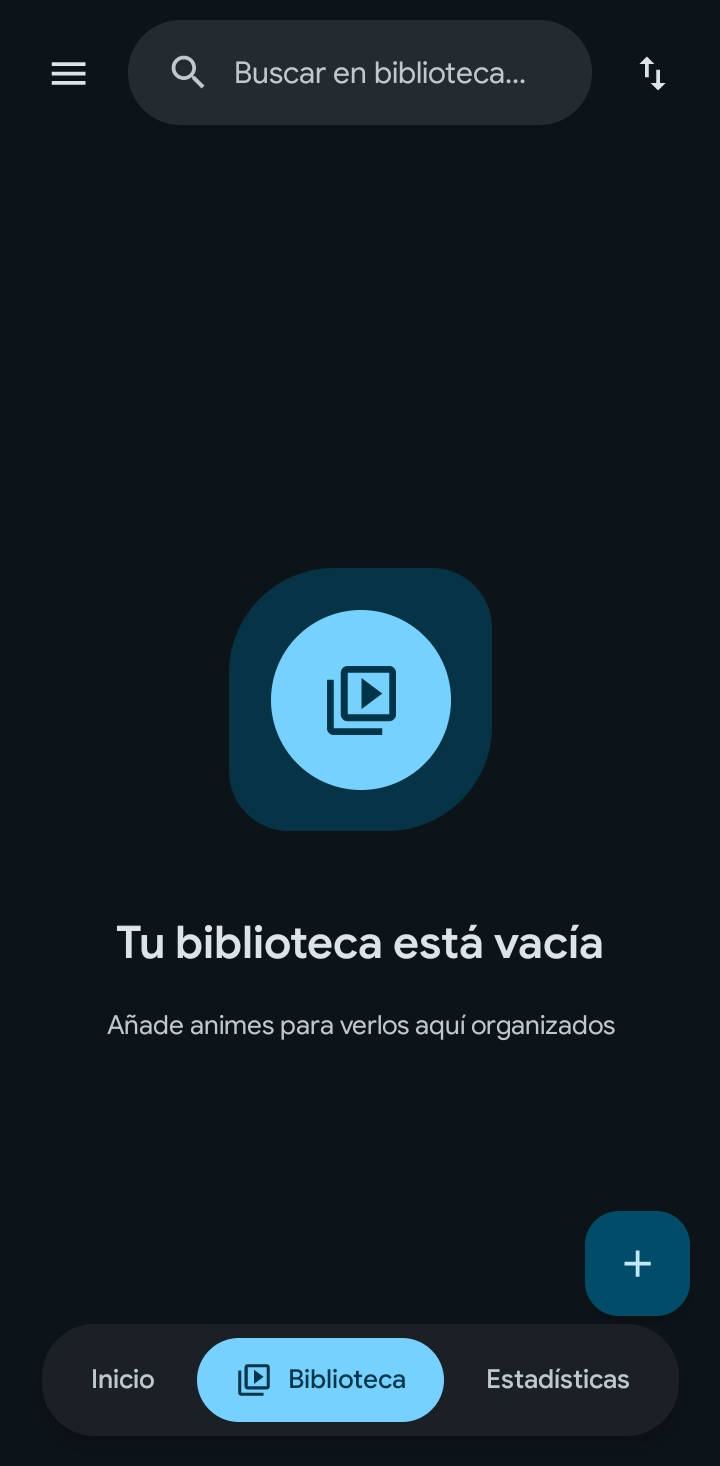
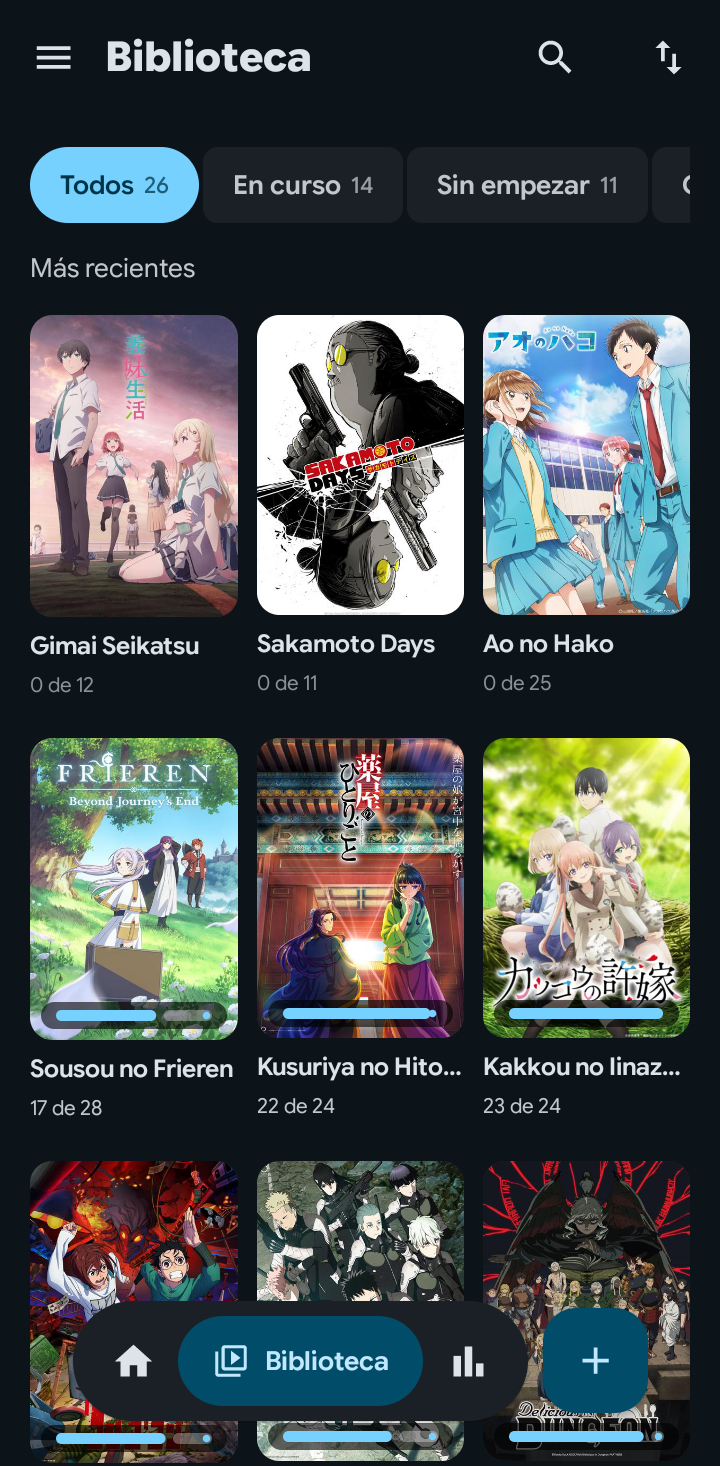
v4.0.0 - Diseño nuevo y formato de lista compartido con la web
- Diseño nuevo en toda la app, con la portada de cada anime como
  protagonista: Inicio, Biblioteca, Estadísticas, la ficha, Destacados,
  Ajustes y los diálogos
- Rejilla de episodios por temporada en la ficha y botón «Ya vi el…»
- Añadir un anime empieza buscando en el catálogo, por pasos
- Búsqueda dentro de Biblioteca, con varios géneros a la vez
- Formato de lista v4, el mismo que la web 4.0.0, con conversión
  automática de la lista y de la copia de Drive
- Lo cambiado o borrado en un dispositivo llega al otro al traer la
  copia de Drive
- README con seis capturas nuevas y la lista de características al día

diff --git a/CHANGELOG.md b/CHANGELOG.md
@@ -1,5 +1,58 @@
 # Registro de Cambios - MyAnimeNotes
 
+## [4.0.0] - 2026-10-14
+
+Versión conjunta con la web 4.0.0: las dos pasan a compartir un formato de lista nuevo. La app, además, cambia de diseño entero.
+
+### Nuevo
+
+- Diseño nuevo en toda la app, con la portada de cada anime como protagonista. Inicio propone qué seguir viendo en una tarjeta grande teñida del color de su portada, Biblioteca es una cuadrícula de pósters con su progreso y Estadísticas se ilustra con las portadas de tu lista
+- La ficha de un anime enseña sus episodios en una rejilla por temporadas: tocar uno lo deja como el último que viste, con «Deshacer» por si te equivocas
+- Añadir un anime empieza buscando en el catálogo y sigue por pasos: ficha, episodios y progreso. La ficha se edita en el sitio, y los géneros y temas se eligen en una hoja
+- Búsqueda dentro de Biblioteca: la cuadrícula se filtra mientras escribes, y puedes marcar varios géneros a la vez
+- Con la lista vacía, Inicio te lleva a añadir el primer anime o a traer una lista de Drive o de un archivo
+- Destacados pone los que estás viendo en un carrusel grande y los terminados en un estante aparte
+- Actualizaciones busca sola si hay una versión nueva, enseña sus notas y descarga el APK
+- Ayuda tiene buscador y una miniatura de cada control del que habla
+- Acerca de dice dónde está tu lista: cuántos animes guarda el teléfono, cómo está tu copia de Drive y un acceso a la web
+- Inicio saluda según la hora del día
+- Al cerrar sesión se quitan del teléfono los animes que ya están en tu copia de Drive, y vuelven al iniciar sesión y traer la copia. Los que tienen cambios sin subir se quedan. Si la copia de Drive no es la que subió o trajo este teléfono, o no hay conexión para comprobarlo, no se quita ninguno
+- Con la sesión iniciada, una nube tachada sobre el póster señala los animes con cambios sin subir, y el detalle dice si el anime está en tu copia de Drive
+
+### Mejorado
+
+- El progreso de un anime es el último episodio visto, y de ahí salen los vistos y el que sigue. Antes se guardaba el episodio que estabas viendo y se contaba como visto: con dos episodios vistos marcaba 3 de 12, y la web hasta 4. Ahora marca 2 de 12 y el siguiente es el 3, igual en la app y en la web
+- El botón principal da por visto el episodio que toca, y marcar el último completa el anime
+- Los botones y avisos dicen las cosas como se dirían en voz alta: «Ya vi el 3» en vez de «Vi el E3», «Te toca el 3», «17 de 28» en Biblioteca y «Traer la copia» como único nombre para traer la copia de Drive
+- Los diálogos de confirmación tienen un diseño nuevo, con dos botones grandes y los datos de la copia o del archivo a la vista. El de eliminar un anime dice cuál es, y el de borrar la lista, cuántos animes se quitan
+- Las fechas y los tamaños de la copia de Drive salen en español aunque el teléfono esté en otro idioma
+- Cambiar de pestaña o de pantalla es más rápido y ya no deja ver un destello gris
+- Tu lista y tu copia de Drive se convierten solas al abrir esta versión. Antes de guardar se comprueba el resultado contra el original, y un aviso te dice cuántos animes se convirtieron. La lista y la copia anteriores se conservan sin tocar
+- La copia de Drive pasa a un archivo nuevo, para que una versión anterior de la app o de la web no pueda sobrescribirla
+- Importar una lista exportada por una versión anterior la convierte al vuelo
+- Con la sesión iniciada, lo que cambias en un dispositivo llega al otro al traer la copia de Drive: una ficha editada, un episodio desmarcado o un anime borrado. Antes solo llegaba el progreso cuando era mayor, y un anime borrado volvía a aparecer desde el otro dispositivo
+- Si el mismo anime cambió en los dos dispositivos, se juntan los cambios: el progreso marcado en uno y la estrella puesta en el otro se conservan los dos. Solo cuando los dos cambiaron el mismo dato gana el que lleva más episodios vistos y, si llevan los mismos, el que se modificó más tarde
+- Cerrar sesión y volver a entrar con la misma cuenta ya no hace perder lo que se borró en otros dispositivos mientras tanto
+- Al importar un archivo, de un anime que ya tienes se queda la versión con más episodios vistos y, si llevan los mismos, la que se modificó más tarde
+- Al traer la copia de Drive, el aviso final dice cuántos animes se añadieron y cuántos se quitaron
+- Traer la copia de Drive ya no la vuelve a subir si el teléfono no tiene nada distinto, así que el otro dispositivo no se queda en pausa sin motivo. Lo que sí tenga distinto se sube solo
+
+### Corregido
+
+- Si la app se cerraba a mitad de guardar, la lista podía quedar cortada y leerse como vacía, y el siguiente cambio la guardaba así. Ahora el guardado no deja el archivo a medias, y uno que no se puede leer se aparta en vez de sobrescribirse
+- Inicio ya no enseña «Tu biblioteca está vacía» durante un par de segundos al abrir la app
+- La subida automática a Drive se hacía tres veces por cada cambio y reemplazaba la copia sin mirar qué había. Ahora sube una vez, y solo si la copia de Drive es la que subió o trajo este teléfono; si no, se pausa hasta que elijas cuál se queda
+- Los errores de Drive se explican en español en vez de enseñar el mensaje técnico en inglés
+- En el menú lateral, «atrás» cerraba la app en vez del menú
+- Importar un archivo que no es una lista, o que es de una versión más nueva o demasiado antigua, explica el motivo en vez de decir «0 animes añadidos»
+- El aviso de importación dice qué versión se queda de un anime que ya tienes, en vez de prometer que su información se actualiza siempre
+- Si Drive no responde o rechaza el acceso, Ajustes dice que no pudo comprobar la copia y ofrece reintentar. Antes mostraba «Aún no hay copia en Drive» e invitaba a subir la lista encima de una copia que sí existía
+- Cuando Google retira el permiso de Drive, la app lo vuelve a pedir en lugar de seguir fallando durante una hora con el acceso antiguo
+
+### Eliminado
+
+- Las listas en el formato antiguo de la versión 1 ya no se pueden importar
+
 ## [3.1.0] - 2026-07-09
 
 ### Nuevo

diff --git a/README.md b/README.md
@@ -5,22 +5,38 @@ Aplicación para Android que te permite llevar el registro de los animes que est
 ## Capturas de pantalla
 
 <p align="center">
-  <img src="screenshots/01_inicio.png" width="30%" />
-  <img src="screenshots/02_biblioteca.png" width="30%" />
-  <img src="screenshots/03_estadisticas.png" width="30%" />
+  <img src="screenshots/01_inicio.png" width="250" alt="Inicio"/>
+  <img src="screenshots/02_biblioteca.png" width="250" alt="Biblioteca"/>
+  <img src="screenshots/03_detalle.png" width="250" alt="Ficha de un anime"/>
 </p>
+
+| Inicio | Biblioteca | Ficha de un anime |
+|:------:|:----------:|:-----------------:|
+| Qué seguir viendo y el episodio que te toca | Tus animes en pósters, con su progreso | Los episodios de cada temporada en una rejilla |
+
+<p align="center">
+  <img src="screenshots/04_estadisticas.png" width="250" alt="Estadísticas"/>
+  <img src="screenshots/05_destacados.png" width="250" alt="Destacados"/>
+  <img src="screenshots/06_anadir.png" width="250" alt="Añadir un anime"/>
+</p>
+
+| Estadísticas | Destacados | Añadir un anime |
+|:------------:|:----------:|:---------------:|
+| Episodios vistos y lo que te queda por ver | Los que marcaste con la estrella | La ficha se rellena sola desde el catálogo |
+
+Las capturas usan datos de demostración.
 
 ## Características
 
-- **Biblioteca personal**: Organiza tus animes por estado (viendo, completado, pendiente, favoritos)
-- **Seguimiento de progreso**: Registra la temporada y episodio actual de cada anime
-- **Avance rápido**: Avanza episodios directamente desde las tarjetas de la biblioteca
-- **Estadísticas**: Visualiza resúmenes de tu actividad y preferencias
-- **Destacados**: Marca tus animes favoritos para acceso rápido
-- **Sincronización en la nube**: Respalda, restaura y elimina backups con Google Drive
+- **Portada como protagonista**: Inicio propone qué seguir viendo en una tarjeta teñida del color de su portada, y Biblioteca es una cuadrícula de pósters con su progreso
+- **Seguimiento de progreso**: Marca el último episodio que viste en la rejilla de cada temporada, o pulsa «Ya vi el…» para dar por visto el que toca
+- **Añadir desde el catálogo**: Busca el anime en el catálogo de portadas y se rellenan solos la portada, el tipo, los géneros y los episodios
+- **Búsqueda y filtros**: Busca dentro de tu biblioteca, marca varios géneros a la vez y filtra por estado, tipo y demografía
+- **Estadísticas**: Cuántos episodios llevas vistos y cuántos te quedan, por estado y por género
+- **Destacados**: Marca tus animes con la estrella para tenerlos a mano
+- **Copia en Google Drive**: Tu lista se sube sola a Drive, y la misma copia se abre en la [versión web](https://m3myanimenotes.vercel.app/)
 - **Temas personalizables**: Modo claro, oscuro y automático según el sistema
-- **Filtros avanzados**: Filtra por tipo, demografía y ordena por progreso, título o fecha
-- **Importar/Exportar**: Importa y exporta tu lista en formato JSON
+- **Importar/Exportar**: Guarda tu lista en un archivo JSON, el mismo formato que usa la web, y júntala con otra al importarla
 
 ## Requisitos
 
